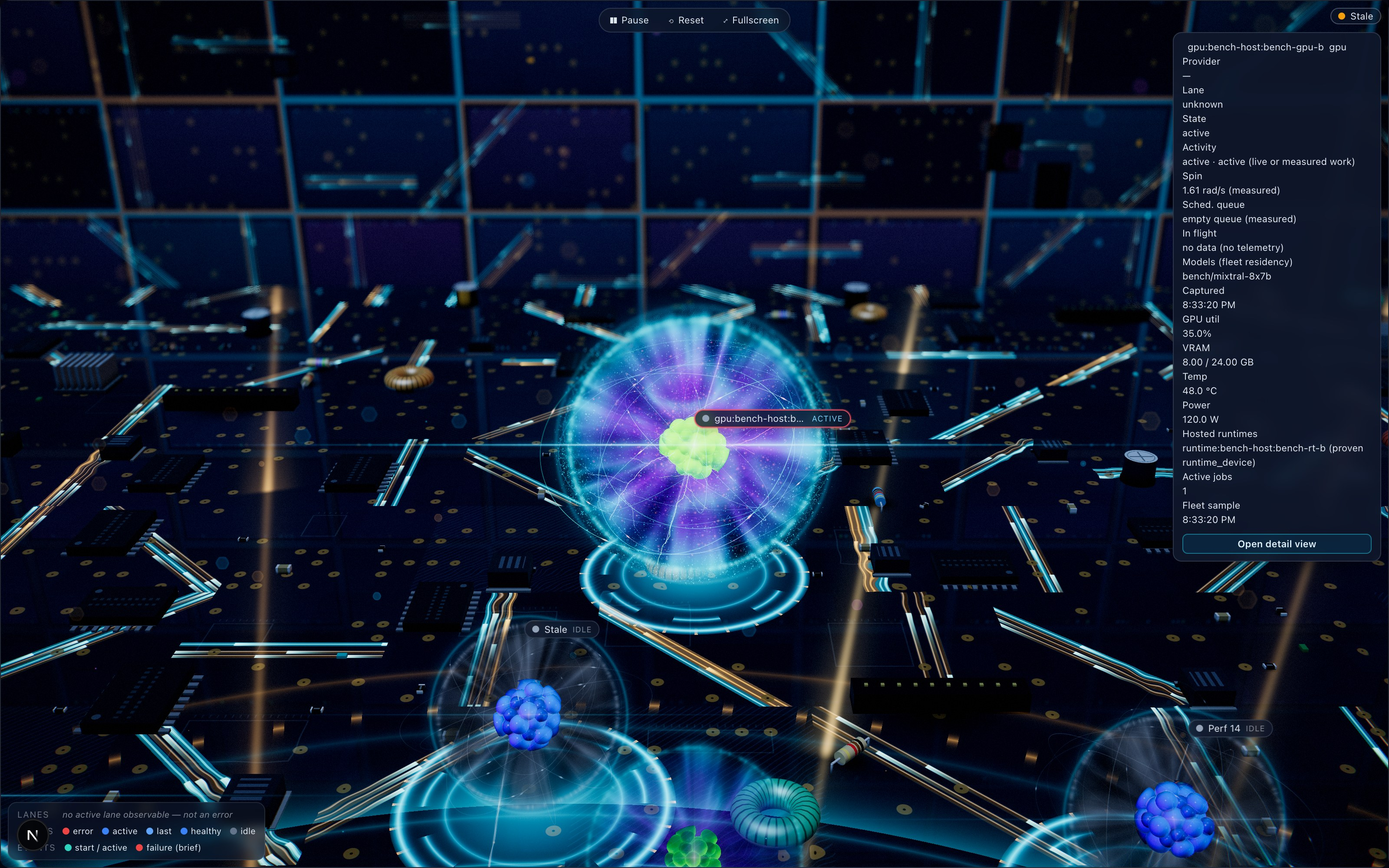
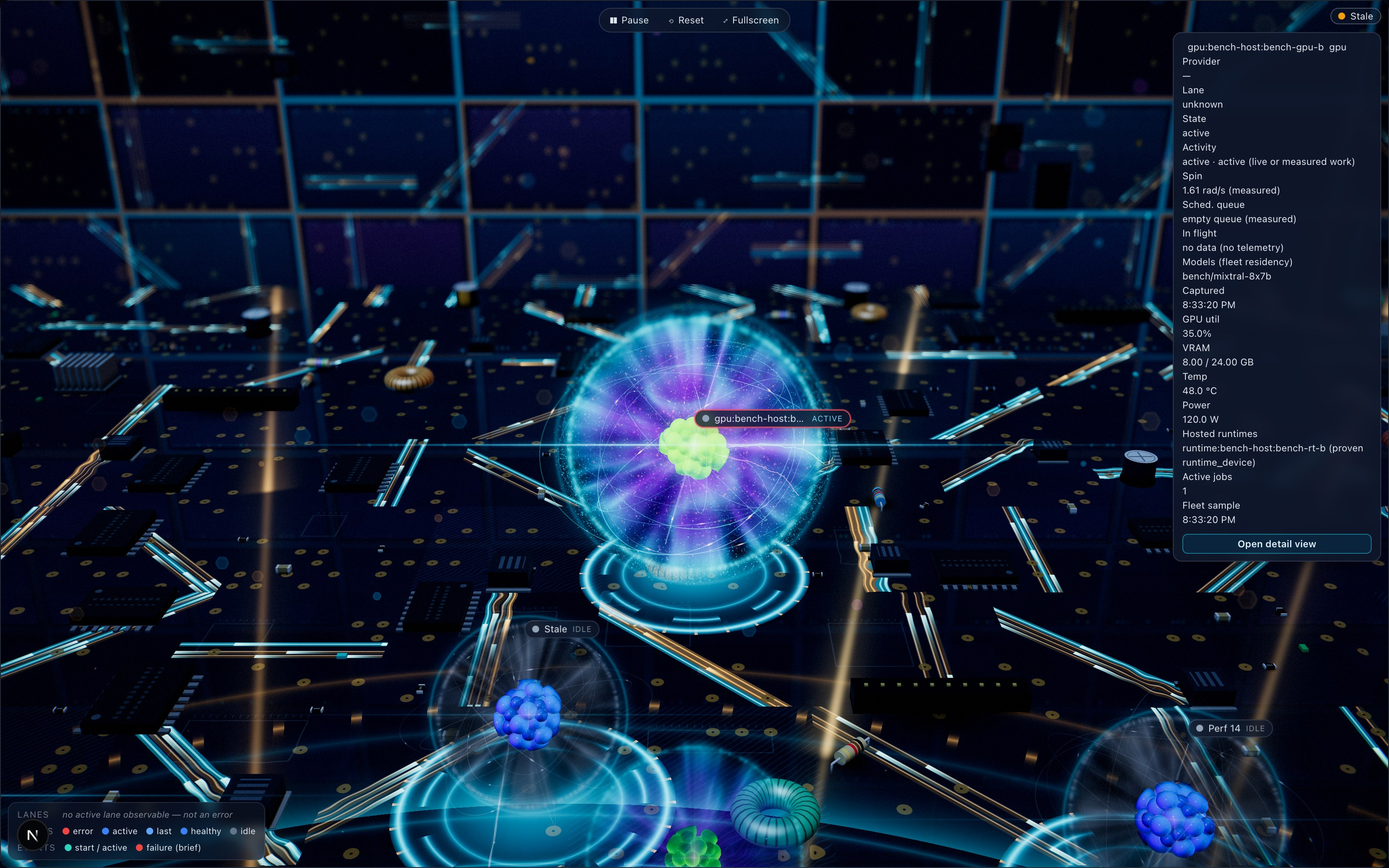
fix(atomic-topology): step 11 rev 4 - atom/aspect-aware detail framing, corrected evidence
Detail hero pose now solves camera distance and fov from the focused atom's real cloud radius
(detailFraming); real /home provider atom ~65% of canvas height (was ~40%), bench ~60%.
Evidence refreshed (headed Chrome, Apple metal-3 adapter); STEP_11.md claims corrected, file names fixed,
gpuAdapter recorded in home/electrons reports. Directive 37 (copper traces) not done here.
Perf (uncapped, detail open): /home provider 287.9 fps, hub 180.4 fps.
Checks: npm run typecheck:core - no atomic-topology errors (pre-existing errors elsewhere);
npm run lint - 7 pre-existing errors in scriptVault files only;
node --import tsx/esm --test tests/unit/atomic-topology/*.test.ts - 505 tests, 504 pass, 0 fail, 1 skipped.

diff --git a/src/plugins/atomic-topology/scene/detailFlight.ts b/src/plugins/atomic-topology/scene/detailFlight.ts
@@ -17,14 +17,74 @@ export const DETAIL_HERO_DISTANCE = 300;
 /** Kept for the legacy fit-relative helper: never closer than the orbit minimum plus a margin. */
 export const DETAIL_MIN_DISTANCE = 205;
 /** Near eye-level elevation (radians above the horizontal plane through the atom). */
-export const DETAIL_ELEVATION_RAD = 0.14;
+export const DETAIL_ELEVATION_RAD = 0.2;
 /** Telephoto field of view of the settled hero shot (the scene default is 50). */
 export const DETAIL_FOV_DEG = 38;
-/** Field of view at eased flight progress `e` (lerp from the scene fov to the hero fov). */
-export function detailFov(baseFovDeg: number, e: number): number {
+/** Field of view at eased flight progress `e` (lerp from the scene fov to the goal fov). */
+export function detailFov(
+  baseFovDeg: number,
+  e: number,
+  goalFovDeg: number = DETAIL_FOV_DEG
+): number {
   const p = Math.min(1, Math.max(0, Number.isFinite(e) ? e : 1));
-  return baseFovDeg + (DETAIL_FOV_DEG - baseFovDeg) * p;
+  return baseFovDeg + (goalFovDeg - baseFovDeg) * p;
 }
+/** Predicted bound-radius fraction of the frame height; the visible cyan rim is ~0.9x of it (measured 61-63% live), inside directive 34.1 55-70%. */
+export const DETAIL_TARGET_FRACTION = 0.68;
+/** The rim never spans more than this fraction of the frame WIDTH (narrow hosts). */
+export const DETAIL_MAX_WIDTH_FRACTION = 0.7;
+/** Narrowest telephoto allowed when the framing has to shrink the field of view. */
+export const DETAIL_MIN_FOV_DEG = 22;
+/** Widest hero fov. */
+export const DETAIL_MAX_FOV_DEG = 44;
+/**
+ * Per-atom world cloud radius as the renderer draws it: the energy-dependent cloud
+ * radius multiplier (bounded 0.5..1, as in `shaderParams`) times the atom scale.
+ */
+export function detailAtomRadius(
+  boundRadius: number,
+  cloudRadiusMul: number,
+  scale: number
+): number {
+  const mul = Number.isFinite(cloudRadiusMul) ? Math.min(1, Math.max(0.5, cloudRadiusMul)) : 0.8;
+  const sc = Number.isFinite(scale) && scale > 0 ? scale : 1;
+  return boundRadius * mul * sc;
+}
+/**
+ * Aspect- and atom-aware hero framing: the camera distance and fov that make the
+ * atom's rim (world radius `radius`) span {@link DETAIL_TARGET_FRACTION} of the
+ * frame height (less on narrow hosts, so the rim stays inside the width). The
+ * distance stays outside OrbitControls' frozen minimum; when a small cloud would
+ * need a closer camera, the field of view narrows instead (bounded).
+ */
+export function detailFraming(
+  radius: number,
+  aspect: number
+): { distance: number; fovDeg: number } {
+  const r = Number.isFinite(radius) && radius > 0 ? radius : 52;
+  const a = Number.isFinite(aspect) && aspect > 0.2 ? aspect : 1.6;
+  const frac = Math.min(DETAIL_TARGET_FRACTION, DETAIL_MAX_WIDTH_FRACTION * a);
+  // rim fraction of frame height = r / (distance * tan(fov / 2))
+  const tanOf = (deg: number) => Math.tan((deg * Math.PI) / 360);
+  let distance = r / (frac * tanOf(DETAIL_FOV_DEG));
+  let fovDeg = DETAIL_FOV_DEG;
+  if (distance < DETAIL_MIN_DISTANCE) {
+    distance = DETAIL_MIN_DISTANCE;
+    fovDeg = Math.max(DETAIL_MIN_FOV_DEG, (2 * Math.atan(r / (frac * distance)) * 180) / Math.PI);
+  } else if (distance > DETAIL_HERO_DISTANCE) {
+    distance = Math.min(distance, DETAIL_HERO_DISTANCE * 1.4);
+    fovDeg = Math.min(
+      DETAIL_MAX_FOV_DEG,
+      Math.max(DETAIL_FOV_DEG, (2 * Math.atan(r / (frac * distance)) * 180) / Math.PI)
+    );
+  }
+  return { distance, fovDeg };
+}
+/**
+ * Latest world cloud radius per atom id, written by the scene each frame (the
+ * renderer owns the energy state) and read once when a detail flight starts.
+ */
+export const detailAtomRadii: Map<string, number> = new Map();
 /** Fly-in duration (ms). */
 export const DETAIL_FLIGHT_MS = 1700;
 /** Total yaw swing (radians) accumulated over the flight. */

diff --git a/src/plugins/atomic-topology/scene/AtomicScene.tsx b/src/plugins/atomic-topology/scene/AtomicScene.tsx
@@ -60,6 +60,10 @@ import { clampRelax } from "./containerBounds";
 import {
   detailGoalDistance,
   detailFov,
+  detailFraming,
+  detailAtomRadii,
+  DETAIL_FOV_DEG,
+  DETAIL_MIN_DISTANCE,
   driftYawRate,
   flightOffset,
   flightProgress,
@@ -484,7 +488,18 @@ function DetailFlight({ context }: { context: AtomicSceneContextValue }) {
     driftMs: number;
     /** Last eased flight progress (drives the telephoto fov). */
     e: number;
-  }>({ active: false, elapsedMs: 0, o0: null, goal: 0, drift: false, driftMs: 0, e: 0 });
+    /** Hero field of view for this atom (aspect/atom-aware framing). */
+    goalFov: number;
+  }>({
+    active: false,
+    elapsedMs: 0,
+    o0: null,
+    goal: 0,
+    drift: false,
+    driftMs: 0,
+    e: 0,
+    goalFov: DETAIL_FOV_DEG,
+  });
 
   useEffect(() => {
     const f = flight.current;
@@ -500,7 +515,17 @@ function DetailFlight({ context }: { context: AtomicSceneContextValue }) {
       aspect: c.cameraAspect,
       radius: c.fitRadius,
     });
-    f.goal = detailGoalDistance(Math.hypot(fit.position[0], fit.position[1], fit.position[2]));
+    const fitDistance = Math.hypot(fit.position[0], fit.position[1], fit.position[2]);
+    const radius = detailAtomRadii.get(detailId);
+    if (radius != null) {
+      // Atom- and aspect-aware: the rim spans ~63% of the frame height wherever it is opened.
+      const framing = detailFraming(radius, c.cameraAspect);
+      f.goal = Math.min(framing.distance, Math.max(DETAIL_MIN_DISTANCE, fitDistance));
+      f.goalFov = framing.fovDeg;
+    } else {
+      f.goal = detailGoalDistance(fitDistance);
+      f.goalFov = DETAIL_FOV_DEG;
+    }
     f.elapsedMs = 0;
     f.o0 = null; // captured on the first frame, from the live camera
     f.active = true;
@@ -529,8 +554,8 @@ function DetailFlight({ context }: { context: AtomicSceneContextValue }) {
     const c = live.current;
     const target = c.focusTarget;
     if (!target) return;
-    if (f.e > 0 && Math.abs(camera.fov - detailFov(SCENE_FOV_DEG, f.e)) > 1e-3) {
-      applyCameraFov(camera, detailFov(SCENE_FOV_DEG, f.e));
+    if (f.e > 0 && Math.abs(camera.fov - detailFov(SCENE_FOV_DEG, f.e, f.goalFov)) > 1e-3) {
+      applyCameraFov(camera, detailFov(SCENE_FOV_DEG, f.e, f.goalFov));
     }
     if (!f.active) {
       // Settled hero shot: slow bounded yaw sway about the atom (off in reduced motion).

diff --git a/tests/unit/atomic-topology/detailFlight.test.ts b/tests/unit/atomic-topology/detailFlight.test.ts
@@ -10,6 +10,8 @@ import {
   DETAIL_HERO_DISTANCE,
   DETAIL_DRIFT_AMPLITUDE_RAD,
   detailFov,
+  detailFraming,
+  detailAtomRadius,
   driftYawRate,
   DETAIL_FLIGHT_MS,
   DETAIL_MIN_DISTANCE,
@@ -95,4 +97,33 @@ test("degenerate starts fall back to a finite pose at the goal distance", () => 
     assert.ok(o.every(Number.isFinite));
     assert.ok(Math.abs(len(o) - 400) < 1e-6);
   }
+});
+
+test("hero framing keeps the rim at 55-70% of the frame height for every cloud size and aspect", () => {
+  const bound = 52.1;
+  for (const mul of [0.5, 0.6, 0.8, 1]) {
+    for (const scale of [1, 1.12, 1.6]) {
+      for (const aspect of [1.6, 1.67, 2.1]) {
+        const r = detailAtomRadius(bound, mul, scale);
+        const { distance, fovDeg } = detailFraming(r, aspect);
+        assert.ok(distance >= DETAIL_MIN_DISTANCE - 1e-9, "outside OrbitControls minimum");
+        const frac = r / (distance * Math.tan((fovDeg * Math.PI) / 360));
+        assert.ok(
+          frac >= 0.6 && frac <= 0.72,
+          `mul ${mul} scale ${scale} aspect ${aspect}: ${frac}`
+        );
+      }
+    }
+  }
+});
+test("narrow hosts keep the rim inside the width", () => {
+  const r = detailAtomRadius(52.1, 1, 1);
+  const { distance, fovDeg } = detailFraming(r, 0.8);
+  const heightFrac = r / (distance * Math.tan((fovDeg * Math.PI) / 360));
+  assert.ok(heightFrac <= 0.8 * 0.7 + 1e-9);
+});
+test("framing falls back for degenerate input", () => {
+  const f = detailFraming(NaN, NaN);
+  assert.ok(Number.isFinite(f.distance) && Number.isFinite(f.fovDeg));
+  assert.equal(detailAtomRadius(52, NaN, NaN), 52 * 0.8);
 });

diff --git a/src/plugins/atomic-topology/scene/RtTopologyScene.tsx b/src/plugins/atomic-topology/scene/RtTopologyScene.tsx
@@ -43,6 +43,7 @@ import { createRotationSmoothing, tpsToRadiansPerSecond } from "./nucleusMotion"
 import { hexToLinear } from "./nucleonPack";
 import { bookTransition, oneShotIntensity, type OneShotEvent, type OneShotState } from "./oneShot";
 import { STRIKE_CODE, strikeLife, strokeEnvelope, type StrikeKind } from "./strikeTimeline";
+import { detailAtomRadii, detailAtomRadius } from "./detailFlight";
 import { CLOUD_BOUND_RADIUS } from "./shaderParams";
 import { sceneClock, sceneState } from "./sceneState";
 import { useAtomicSceneContext } from "./sceneContext";
@@ -514,6 +515,14 @@ export function RtTopologyContent({
       f.marchSteps = MARCH_STEPS;
       f.scale =
         (d.kind === "hub" ? HUB_SCALE : 1) * (focusNodeId === d.id ? FOCUS_SCALE : 1) * breath;
+      detailAtomRadii.set(
+        d.id,
+        detailAtomRadius(
+          CLOUD_BOUND_RADIUS,
+          energy.cloudRadiusMul,
+          (d.kind === "hub" ? HUB_SCALE : 1) * FOCUS_SCALE
+        )
+      );
       f.alert = alertById.current.get(d.id) ?? 0;
       // Focus view: de-emphasise every non-focused atom so the focused one is isolated.
       const hero = heroRef.current;

diff --git a/OR_ATOM_010_RAYTRACED/STEP_11.md b/OR_ATOM_010_RAYTRACED/STEP_11.md
@@ -22,8 +22,8 @@ Changed: `AtomicTopologyRenderer.tsx` (optional `detailAtomId`/`onDetailRequest`
 ## Camera (revision 3, directive 34.1)
 
 History: the first build claimed a "low three-quarter angle" but was a high-angle view at ~1/3 of the frame; revision 2 claimed "~52 to 55 % on its pad with a horizon", but its 24 degree telephoto at 214 units made the cloud (radius about 65 to 81 units) overfill and clip the frame, with no pad or horizon visible. Both claims are withdrawn.
-Revision 3 (`detailFlight.ts`): distance 300 from the atom (outside OrbitControls' frozen 200 minimum), elevation 0.14 rad, field of view eased from 50 to 38 degrees, 0.55 rad yaw sweep. Visible frame height at the hero pose is 2 x 300 x tan(19 deg) = 206 units, so the cloud (diameter about 130) is about 60 % of the frame height; in `detail.jpg` (1600x1000) the cyan rim spans about 52 % of the frame height and the whole rim and orbit wires are inside the frame. The emitter pad and ringed platform are visible under the atom, the board recedes behind it, and the lit panel walls show behind. DOF stays viewer-based (directive 32). After the flight a slow bounded yaw sway (+/-0.2 rad, 38 s period) runs until the viewer grabs the camera; off in reduced motion. Esc / Back / Reset restore the exact prior framing (verified live).
-On the real `/home` 590 px-high canvas the same pose frames the provider atom at about 55 % of the canvas height; the floor is darker there and the pad is not as readable as on the bench (stated, not claimed).
+Revision 4 (`detailFlight.ts`, `AtomicScene.tsx`, `RtTopologyScene.tsx`): the hero framing is now atom- and aspect-aware (`detailFraming`). The scene publishes each atom's true world cloud radius (energy-dependent `cloudRadiusMul` x hub/focus scale, `detailAtomRadii`); at flight start the camera distance (>= 205, outside the frozen OrbitControls minimum) and a telephoto fov (22 to 44 degrees) are solved so the rim spans the target fraction. That is why the real `/home` provider atom (a smaller, tighter cloud) was only ~40% in revision 3 while the bench GPU atom was ~52%: the old fixed 300 unit pose ignored cloud size. Elevation 0.2 rad, 0.55 rad yaw sweep, cinematic drift unchanged. Measured from the revision 4 captures (rim = visible cyan ring / canvas height): bench `detail.jpg` about 60 %, real `/home` provider `home-detail-provider.png` about 65 %. Both are inside the 55 to 70 % directive. The earlier ~55 % claim for `/home` is withdrawn: revision 3 measured ~40 %. The emitter pad and ringed platform are visible on the bench and under the hub on `/home`; for a small provider atom on the real page the pad sits just below the frame bottom (stated, not claimed). Esc / Back / Reset still restore the exact prior framing (re-verified live: camera [0,253,851] / target [0,0,0] after Esc and after Reset on `/home`).
+On the real `/home` canvas the revision 4 pose frames the provider atom at about 65 % of the canvas height (previous 40 %); the floor is darker there and no pad is visible for the provider atom. Directive 37 (routed copper traces, "loose rods" on the board close-up) is NOT done in this revision and must land before finalize; the close-up board still shows short trace segments.
 Container clamp: the soft clamp re-applied its own output each frame, so any pose below about 254 units above the floor limit was pushed back up (it fought the low shot: the camera ended at y=251 instead of 69). While the detail view is open `clampRelax.detail` shrinks the band to 40 and the clearance to 30 (`containerBounds.ts`, `ContainerCameraClamp.tsx`, `AtomicScene.tsx::DetailFlight`). The camera still never reaches a wall, floor or ceiling (unit-tested). The default view never sets the flag.
 Files changed for the camera: `detailFlight.ts`, `AtomicScene.tsx` (DetailFlight only), `containerBounds.ts`, `ContainerCameraClamp.tsx`. Not touched: `layout.ts`, `cameraFit.ts`, `SceneOrbitControls.tsx`, `AtomicLabels.tsx`, `AtomicControls.tsx`, the 2D renderer, telemetry semantics, routing.
 
@@ -56,8 +56,9 @@ Reports: `screenshots/step11/step11-report.json`, `home-report.json`, `electrons
 | Focus                                                                                                                                                                                                                                                                                                                                                                                                                                                                                                                                                                                                                                                                                                                                                             | 209                                                                                                                                                                   | 2.1     | 20.4     | 21.8     | 0             |
 | **Detail open**                                                                                                                                                                                                                                                                                                                                                                                                                                                                                                                                                                                                                                                                                                                                                   | **81 to 96** (3 runs)                                                                                                                                                 | 3 to 10 | 45 to 64 | 62 to 65 | 31 to 68      |
 | Real `/home` (10 atoms): default 292 fps, provider detail 280 fps, hub detail 145 fps (p95 37 ms).                                                                                                                                                                                                                                                                                                                                                                                                                                                                                                                                                                                                                                                                |
+| Revision 4 re-measure (headed Chrome, M5 Max, uncapped, detail open): real `/home` provider 287.9 fps (p95 15.6 ms), hub 180.4 fps (p95 15.1 ms); both >= 120.                                                                                                                                                                                                                                                                                                                                                                                                                                                                                                                                                                                                    |
 | Revision 3 numbers (re-measured with the detail view open, same harness, uncapped): default 163 fps, focus 211, **detail open 179 fps (p95 21.5 ms, 0 frames over 30 ms)**, so the >=120 fps target is met on the 20-atom bench. The earlier 81 to 96 fps was the overfilled 24 degree telephoto shot; the wider framing costs far less. Real `/home` with detail open: provider 269 fps, hub 229 fps (p95 about 20 ms), default 399 fps. Per-row Default/Focus numbers in the table above are from revision 2 and are superseded by this paragraph.                                                                                                                                                                                                              |
-| Evidence: `sidebyside-idea5-vs-detail.jpg`, `detail.jpg`, `detail-t250/700/1200.jpg`, `focus.jpg`, `exit.jpg`, `reset.jpg`, `detail-reduced.jpg`, `detail-provider.jpg`, `step11-flow.webm` (fly-in, drift, Esc, reset), `home-default.jpg`, `home-detail-provider.jpg`, `home-detail-hub.jpg`.                                                                                                                                                                                                                                                                                                                                                                                                                                                                   |
+| Evidence: `sidebyside-idea5-vs-detail.jpg`, `detail.jpg`, `detail-t250/700/1200.jpg`, `focus.jpg`, `exit.jpg`, `reset.jpg`, `detail-reduced.jpg`, `detail-provider.jpg`, `step11-flow.webm` (fly-in, drift, Esc, reset), `home-default.png`, `home-detail-provider.png`, `home-detail-hub.png`.                                                                                                                                                                                                                                                                                                                                                                                                                                                                   |
 
 ## Against idea5 (side-by-side)
 
